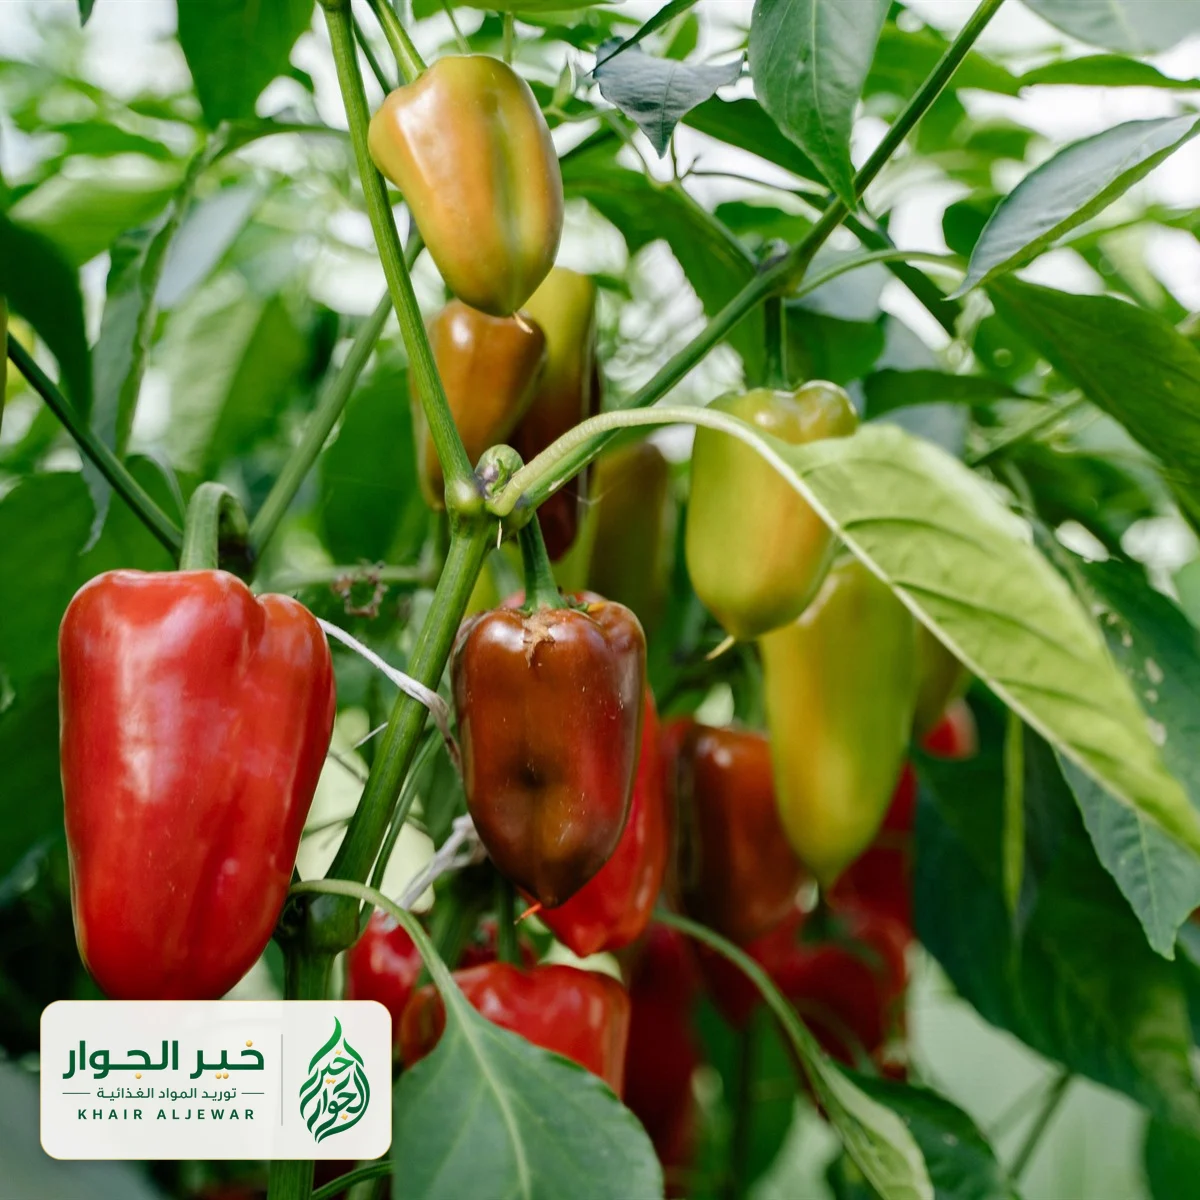
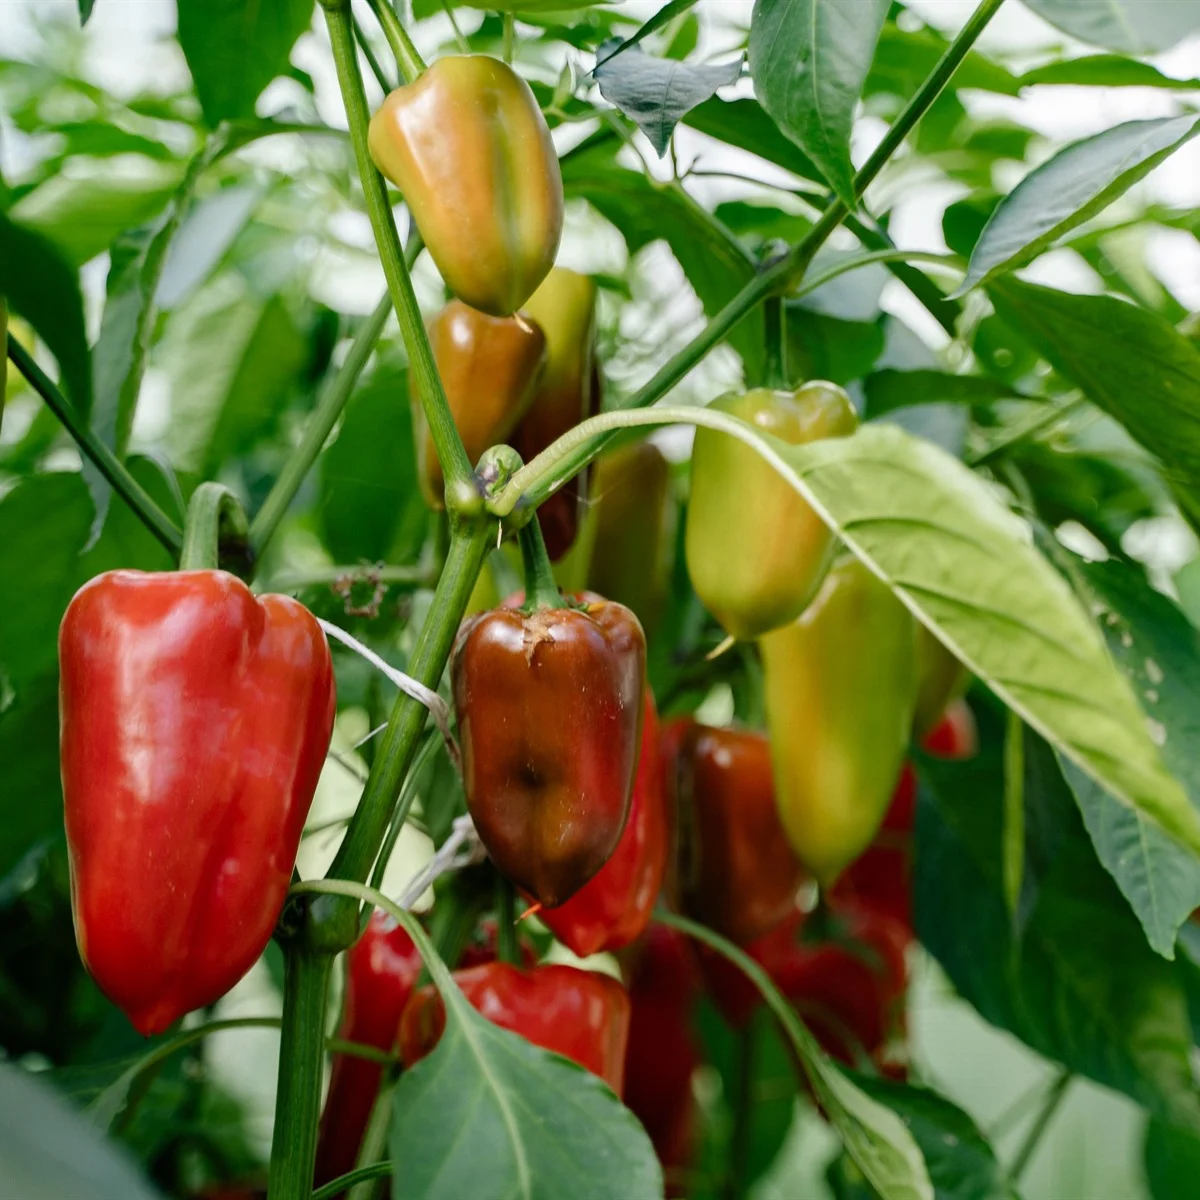
Overlay brand stamp instead of baking it into photos; blurred backdrop for pack shots

Changed region(s): [[0.0308, 0.8325, 0.3392, 0.9867]]

diff --git a/src/components/ui/ProductImage.tsx b/src/components/ui/ProductImage.tsx
@@ -4,6 +4,7 @@ import { useState, useCallback, useEffect } from 'react'
 import Image from 'next/image'
 import { ImageIcon } from 'lucide-react'
 import { cn } from '@/lib/utils/cn'
+import BrandStamp from '@/components/ui/BrandStamp'
 import {
   IMAGE_BLUR_DATA_URL,
   resolveProductImage,
@@ -109,15 +110,10 @@ export default function ProductImage({
   }, [displaySrc, categoryEn, src])
 
   const showPendingOverlay = pending || failed
-  // Branded orchard shots carry the logo badge in the bottom-left corner; anchor crops there
-  const branded = isOrchardImage(displaySrc)
+  const branded = isOrchardImage(displaySrc) && variant !== 'thumb'
   const objectFit =
     fit === 'cover'
-      ? branded
-        ? variant === 'detail'
-          ? 'object-cover object-left-bottom'
-          : 'object-cover object-bottom'
-        : 'object-cover object-center'
+      ? 'object-cover object-center'
       : 'object-contain object-center p-2 sm:p-3 md:p-4'
 
   return (
@@ -142,20 +138,35 @@ export default function ProductImage({
             decoding="async"
           />
         ) : (
-          <Image
-            src={displaySrc}
-            alt={alt}
-            fill
-            sizes={sizes ?? styles.sizes}
-            priority={priority}
-            quality={variant === 'thumb' ? IMAGE_QUALITY_THUMB : variant === 'card' ? 78 : IMAGE_QUALITY_PRODUCT}
-            placeholder="blur"
-            blurDataURL={IMAGE_BLUR_DATA_URL}
-            onError={handleError}
-            className={cn(objectFit)}
-          />
+          <>
+            {/* Pack shots keep their full frame; a soft blurred copy fills the letterbox instead of flat cream */}
+            {fit === 'contain' && variant !== 'thumb' && (
+              <Image
+                src={displaySrc}
+                alt=""
+                aria-hidden
+                fill
+                sizes={sizes ?? styles.sizes}
+                quality={variant === 'card' ? 78 : IMAGE_QUALITY_PRODUCT}
+                className="scale-125 object-cover opacity-45 blur-2xl"
+              />
+            )}
+            <Image
+              src={displaySrc}
+              alt={alt}
+              fill
+              sizes={sizes ?? styles.sizes}
+              priority={priority}
+              quality={variant === 'thumb' ? IMAGE_QUALITY_THUMB : variant === 'card' ? 78 : IMAGE_QUALITY_PRODUCT}
+              placeholder="blur"
+              blurDataURL={IMAGE_BLUR_DATA_URL}
+              onError={handleError}
+              className={cn(objectFit, fit === 'contain' && 'drop-shadow-[0_10px_18px_rgba(12,24,18,0.18)]')}
+            />
+          </>
         )
       )}
+      {!showPendingOverlay && branded && <BrandStamp size={variant === 'detail' ? 'lg' : 'sm'} />}
       {showPendingOverlay && <PendingOverlay lang={lang} variant={variant} />}
     </div>
   )

diff --git a/src/app/[lang]/about/page.tsx b/src/app/[lang]/about/page.tsx
@@ -28,6 +28,7 @@ import {
   Truck,
 } from 'lucide-react'
 import Container from '@/components/ui/Container'
+import BrandStamp from '@/components/ui/BrandStamp'
 import JsonLd from '@/components/seo/JsonLd'
 import { BRAND } from '@/lib/constants/brand'
 import { isOrchardImage, resolveProductImage } from '@/lib/constants/images'
@@ -905,12 +906,10 @@ export default async function AboutPage({ params: { lang } }: { params: { lang: 
                       alt={isAr ? c.ar : c.en}
                       fill
                       sizes="(max-width: 1024px) 50vw, 280px"
-                      className={cn(
-                        'object-cover transition-transform duration-700 group-hover:scale-105',
-                        isOrchardImage(c.hero.image) ? 'object-bottom' : 'object-center'
-                      )}
+                      className="object-cover object-center transition-transform duration-700 group-hover:scale-105"
                     />
                   )}
+                  {c.hero && isOrchardImage(c.hero.image) && <BrandStamp size="sm" />}
                   <span className="absolute top-2 start-2 rounded-full bg-primary/85 px-2 py-0.5 text-[10px] font-bold text-cream">
                     {isAr ? `${c.count} صنف` : `${c.count} ${c.count === 1 ? 'line' : 'lines'}`}
                   </span>

diff --git a/src/components/sections/NewArrivals.tsx b/src/components/sections/NewArrivals.tsx
@@ -8,6 +8,7 @@ import Container from '@/components/ui/Container'
 import type { Product } from '@/lib/data/products'
 import { BRAND_EASE, SCROLL_VIEWPORT_INSTANT } from '@/lib/constants/motion'
 import { isOrchardImage, resolveProductImage } from '@/lib/constants/images'
+import BrandStamp from '@/components/ui/BrandStamp'
 import { useLightMotion } from '@/hooks/useLightMotion'
 import { cn } from '@/lib/utils/cn'
 
@@ -68,7 +69,7 @@ function Tile({
             className={cn(
               'transition-transform duration-[1200ms] ease-out group-hover:scale-[1.05]',
               packshot ? 'object-contain p-6 md:p-8' : 'object-cover',
-              !packshot && (isOrchardImage(product.image) ? 'object-left-bottom' : hero && 'object-[50%_70%]')
+              hero && !packshot && !isOrchardImage(product.image) && 'object-[50%_70%]'
             )}
           />
           {badge && (
@@ -81,6 +82,7 @@ function Tile({
               {badge}
             </span>
           )}
+          {isOrchardImage(product.image) && <BrandStamp size={hero ? 'md' : 'sm'} />}
         </div>
 
         <div className={cn('flex items-end justify-between gap-3 border-t border-primary/8 bg-white', hero ? 'p-5 md:p-7' : 'p-4 md:p-5')}>

diff --git a/src/components/ecom/CategoryShowcaseBanner.tsx b/src/components/ecom/CategoryShowcaseBanner.tsx
@@ -6,6 +6,7 @@ import { MessageCircle } from 'lucide-react'
 import type { Product } from '@/lib/data/products'
 import { BRAND } from '@/lib/constants/brand'
 import { isOrchardImage, resolveProductImage } from '@/lib/constants/images'
+import BrandStamp from '@/components/ui/BrandStamp'
 import { cn } from '@/lib/utils/cn'
 
 type Copy = { en: string; ar: string }
@@ -131,12 +132,10 @@ export default function CategoryShowcaseBanner({
             alt={heroTitle}
             fill
             sizes="(max-width: 1024px) 100vw, 480px"
-            className={cn(
-              'object-cover transition-transform duration-700 hover:scale-[1.03]',
-              isOrchardImage(hero.image) ? 'object-left-bottom' : 'object-center'
-            )}
+            className="object-cover object-center transition-transform duration-700 hover:scale-[1.03]"
           />
           <div className="absolute inset-0 bg-gradient-to-t from-[#0C1812]/55 via-transparent to-transparent lg:bg-gradient-to-l lg:from-[#0C1812]/40" />
+          {isOrchardImage(hero.image) && <BrandStamp size="md" />}
         </Link>
 
         <div className={cn('relative flex min-w-0 flex-col justify-center gap-3 p-4 text-cream sm:gap-4 sm:p-8', font)}>

diff --git a/src/components/ui/BrandStamp.tsx b/src/components/ui/BrandStamp.tsx
@@ -1,0 +1,38 @@
+import Image from 'next/image'
+import { cn } from '@/lib/utils/cn'
+
+const SIZES = {
+  sm: { box: 'px-1.5 py-1 rounded-md', img: 'h-[18px] sm:h-5' },
+  md: { box: 'px-2 py-1.5 rounded-lg', img: 'h-6 sm:h-7' },
+  lg: { box: 'px-2.5 py-2 rounded-xl', img: 'h-8 sm:h-10' },
+} as const
+
+/** Khair Aljaar lockup laid over in-orchard product photos, so crops never cut the brand */
+export default function BrandStamp({
+  size = 'sm',
+  className,
+}: {
+  size?: keyof typeof SIZES
+  className?: string
+}) {
+  const s = SIZES[size]
+  return (
+    <span
+      aria-hidden
+      className={cn(
+        'pointer-events-none absolute bottom-2 left-2 z-[1] inline-flex items-center bg-cream/90 shadow-[0_6px_18px_-6px_rgba(12,24,18,0.45)] ring-1 ring-secondary/40 backdrop-blur-sm sm:bottom-3 sm:left-3',
+        s.box,
+        className
+      )}
+    >
+      <Image
+        src="/images/logo/khair-aljewar-lockup.png"
+        alt=""
+        width={575}
+        height={256}
+        sizes="120px"
+        className={cn('w-auto', s.img)}
+      />
+    </span>
+  )
+}

diff --git a/src/lib/constants/images.ts b/src/lib/constants/images.ts
@@ -84,7 +84,7 @@ export function isValidImageUrl(url?: string | null): url is string {
 }
 
 /** Bump when product photos are replaced in place — optimized images are browser-cached for 7 days */
-const PRODUCT_IMAGE_VERSION = '20261114b'
+const PRODUCT_IMAGE_VERSION = '20261114c'
 
 /**
  * Branded in-orchard photos (full-bleed scenes, shown with object-cover) mapped to the
